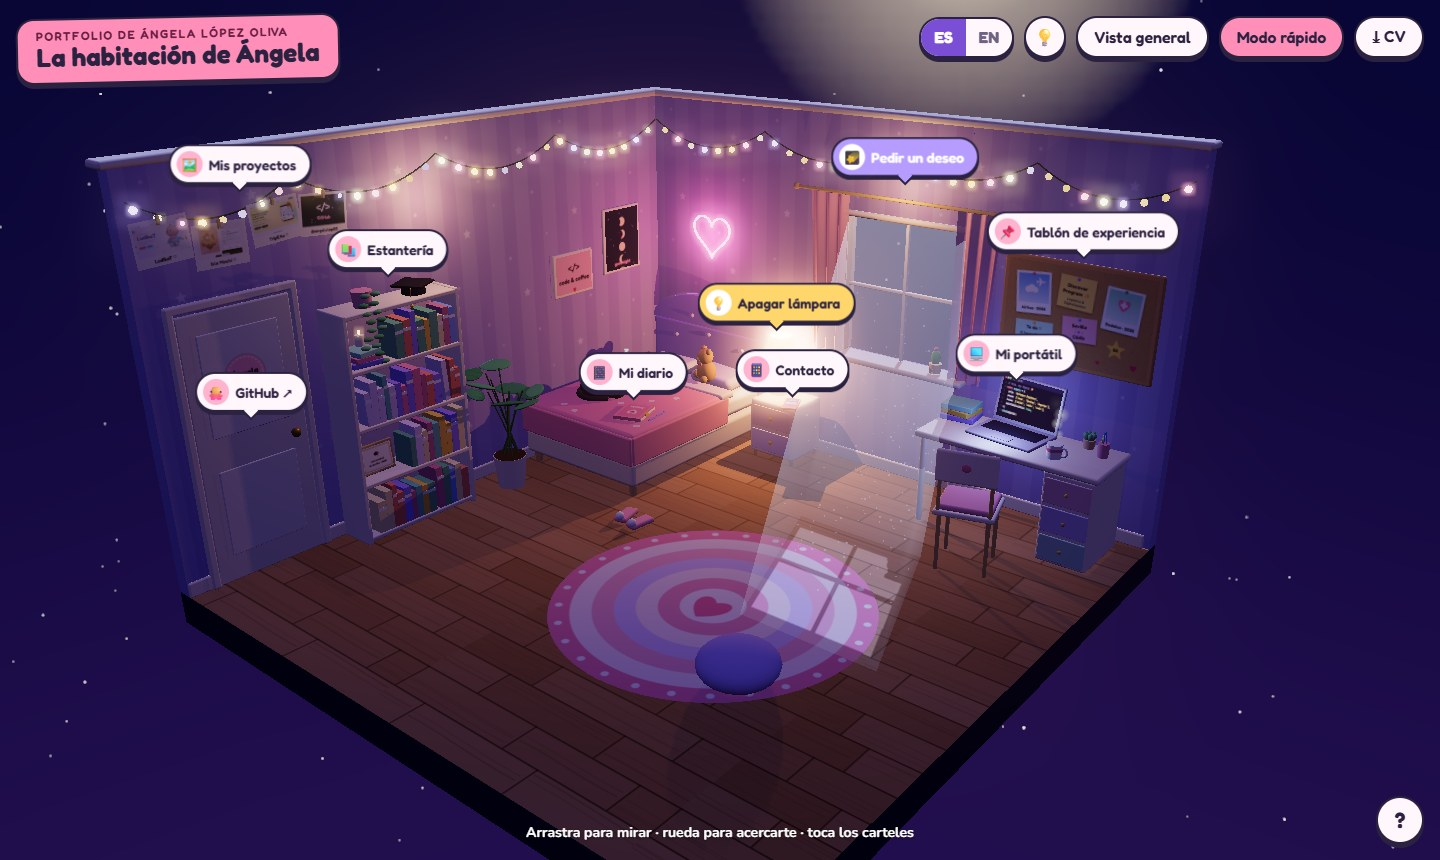
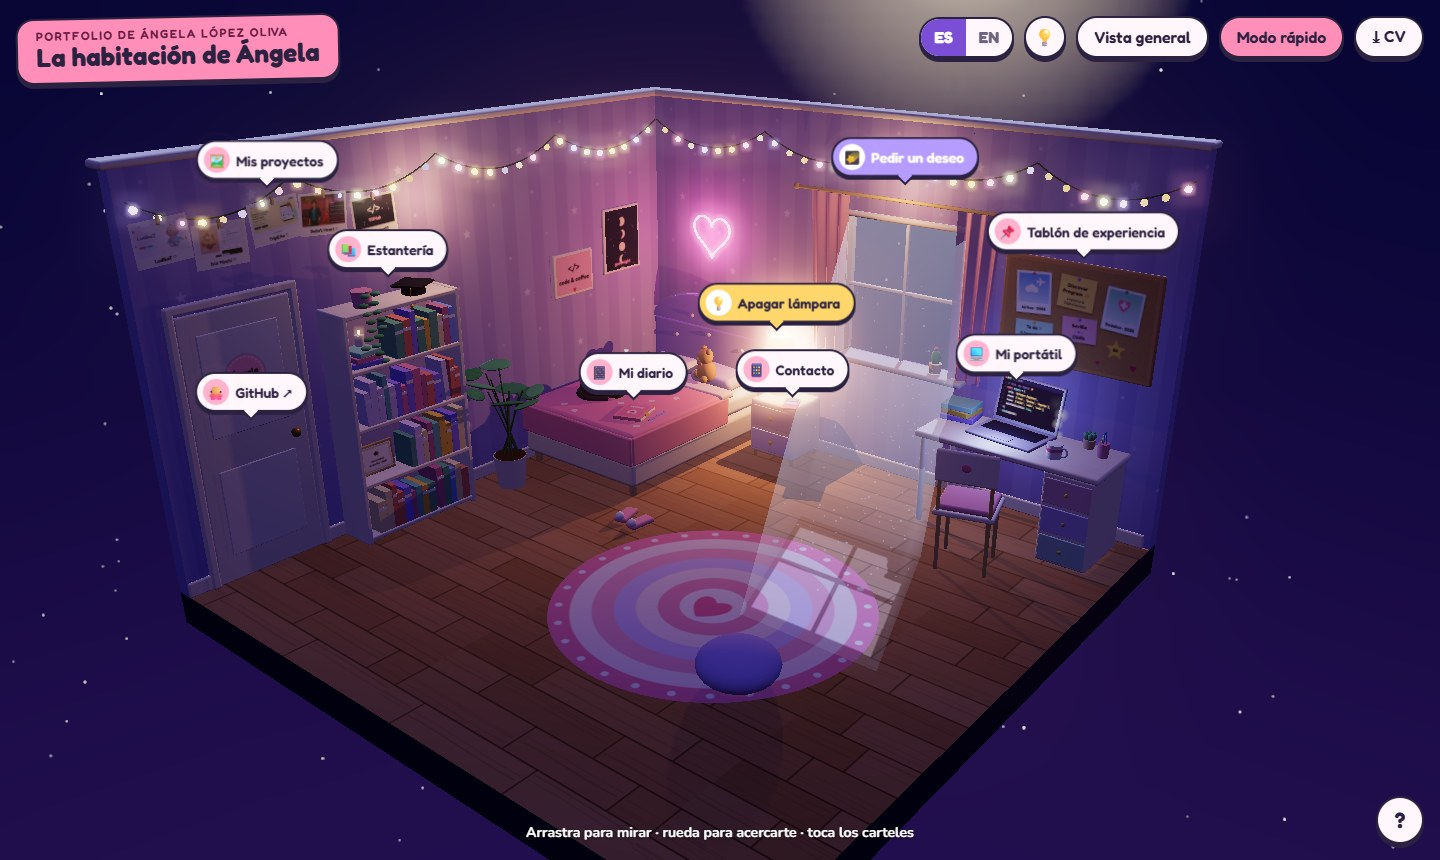
feat: add Bella's Heart (bellas-heart-web) to the room's projects
A fifth polaroid joins the fairy lights and the projects panel, quick
mode and README list the thesis visual novel.

Changed region(s): [[0.0938, 0.1512, 0.2812, 0.2721]]

diff --git a/content.js b/content.js
@@ -187,6 +187,33 @@ export const PROJECTS = [
       { label: { es: 'Código API', en: 'API code' }, url: 'https://github.com/angelalop03/TripEAs-backend' },
     ],
   },
+  {
+    id: 'bellas-heart',
+    name: "Bella's Heart",
+    image: 'assets/projects/bellas-heart.jpg',
+    kind: { es: 'Trabajo de Fin de Grado', en: "Bachelor's thesis project" },
+    summary: {
+      es: 'Novela visual jugable en el móvil sobre las relaciones de pareja y la violencia de género: eres Bella y tus decisiones cambian la historia. Ayuda a reconocer las señales de una relación tóxica y da a conocer los recursos de ayuda.',
+      en: 'A mobile-playable visual novel about relationships and gender violence: you are Bella and your choices change the story. It helps players recognize the signs of a toxic relationship and shows where to find help.',
+    },
+    highlights: {
+      es: [
+        'Historia ramificada con cuatro caminos: cada decisión suma malestar a Bella o tensión a la relación, y al final el historial marca las señales de alerta.',
+        'Botón «Ayuda 016» siempre visible y página de recursos con llamada directa al 016 y al 112.',
+        'Partidas en la nube con la lógica del juego en funciones SQL (Neon · PostgreSQL), sesiones seguras con bcrypt y CSRF, panel de administración y PWA instalable.',
+      ],
+      en: [
+        'Branching story with four paths: every choice adds to Bella’s distress or the relationship’s tension, and the final history highlights the warning signs.',
+        'An always-visible “Help 016” button and a resources page with direct calls to Spain’s 016 helpline and 112.',
+        'Cloud saves with the game logic in SQL functions (Neon · PostgreSQL), secure sessions with bcrypt and CSRF protection, an admin panel and an installable PWA.',
+      ],
+    },
+    tags: ['React 19', 'TypeScript', 'Vite', 'PostgreSQL', 'Neon', 'Vercel Functions', 'PWA'],
+    links: [
+      { label: { es: 'Jugar', en: 'Play' }, url: 'https://bellas-heart.vercel.app/' },
+      { label: { es: 'Código', en: 'Code' }, url: 'https://github.com/angelalop03/bellas-heart-web' },
+    ],
+  },
 ];
 
 // Cada grupo de habilidades es una pegatina del portátil.

diff --git a/main.js b/main.js
@@ -1433,12 +1433,12 @@ function buildPolaroids() {
     c.fillText('GitHub', x + w / 2, y + 152);
     c.textAlign = 'left';
   }));
-  const zs = [4.55, 3.75, 2.95, 2.15]; // de izquierda a derecha, vistas desde la habitación
+  const zs = [4.55, 3.75, 2.95, 2.15, 1.35]; // de izquierda a derecha, vistas desde la habitación
   cards.forEach((tex, i) => {
     const z = zs[i];
     const hang = new THREE.Group();
     hang.position.set(-4.88, garlandY(z), z);
-    hang.userData.tilt = [0.06, -0.04, 0.07, -0.05][i];
+    hang.userData.tilt = [0.06, -0.04, 0.07, -0.05, 0.04][i];
     g.add(hang);
     const photo = mesh(new THREE.PlaneGeometry(0.76, 0.6), new THREE.MeshStandardMaterial({ map: tex, roughness: 0.85 }), 0, -0.33, 0, hang);
     photo.rotation.y = Math.PI / 2;
@@ -1771,7 +1771,7 @@ function init3D() {
   register('contact', phone, V(-1.15, 1.42, -4.15), { pos: V(0.5, 3.1, -1.4), target: V(-1.25, 1.15, -4.15) }, '📱');
   register('lamp', lamp, V(-1.85, 2.38, -4.6), null, '💡', 'toggle');
   register('window', winGroup, V(WIN_CENTER.x, WIN.y1 + 0.75, -4.9), { pos: V(3.2, 3.3, 3.8), target: V(WIN_CENTER.x, 3.1, -5) }, '🌠', 'wish');
-  register('projects', buildPolaroids(), V(-4.9, 5.6, 3.35), { pos: V(0.4, 4.5, 3.6), target: V(-4.5, 4.75, 3.35) }, '🖼');
+  register('projects', buildPolaroids(), V(-4.9, 5.6, 2.95), { pos: V(0.9, 4.5, 3.1), target: V(-4.5, 4.75, 2.95) }, '🖼');
   register('door', doorGroup, V(-4.9, 2.45, 3.7), null, '🐙');
   register('cat', cat, null, null, null);
   updateHotspotLabels();

diff --git a/README.md b/README.md
@@ -16,7 +16,7 @@ Portfolio interactivo en 3D: una habitación de noche, flotando en un cielo estr
 | **📌 Tablón · Experiencia** | **📚 Estantería · Formación** |
 | ![Tablón de corcho con la experiencia profesional](docs/screenshots/tablon.jpg) | ![Estantería con la formación](docs/screenshots/estanteria.jpg) |
 | **🖼 Polaroids · Proyectos** | **🌠 Pedir un deseo (versión en inglés)** |
-| ![Polaroids de LudikaT, Isla Mochi y TripEAs colgadas de la guirnalda](docs/screenshots/proyectos.jpg) | ![Estrella fugaz cruzando la ventana](docs/screenshots/deseo.jpg) |
+| ![Polaroids de LudikaT, Isla Mochi, TripEAs y Bella's Heart colgadas de la guirnalda](docs/screenshots/proyectos.jpg) | ![Estrella fugaz cruzando la ventana](docs/screenshots/deseo.jpg) |
 | **⚡ Modo rápido, sin 3D** | **📱 Versión móvil, con Aelin dando la bienvenida** |
 | ![Modo rápido con todo el CV en una página](docs/screenshots/modo-rapido.jpg) | <p align="center"><img src="docs/screenshots/movil.jpg" alt="Versión móvil con Aelin como guía" width="220"></p> |
 
@@ -28,7 +28,7 @@ Portfolio interactivo en 3D: una habitación de noche, flotando en un cielo estr
 | 💻 Portátil del escritorio | Stack técnico (cada grupo es una pegatina) |
 | 📌 Tablón de corcho | Experiencia profesional (Airbus, Dedalus) |
 | 📚 Estantería | Formación, certificaciones e idiomas |
-| 🖼 Polaroids en la guirnalda | Proyectos: [LudikaT](https://ludika-t.vercel.app/), [Isla Mochi](https://isla-mochi.vercel.app/) y [TripEAs](https://angelalop03.github.io/TripEAs-Web/) |
+| 🖼 Polaroids en la guirnalda | Proyectos: [LudikaT](https://ludika-t.vercel.app/), [Isla Mochi](https://isla-mochi.vercel.app/), [TripEAs](https://angelalop03.github.io/TripEAs-Web/) y [Bella's Heart](https://bellas-heart.vercel.app/) |
 | 🚪 Puerta | Abre mi [GitHub](https://github.com/angelalop03) |
 | 📱 Móvil de la mesita | Contacto, LinkedIn, GitHub y CV |
 | 💡 Lámpara de la mesita | Se enciende y se apaga |
